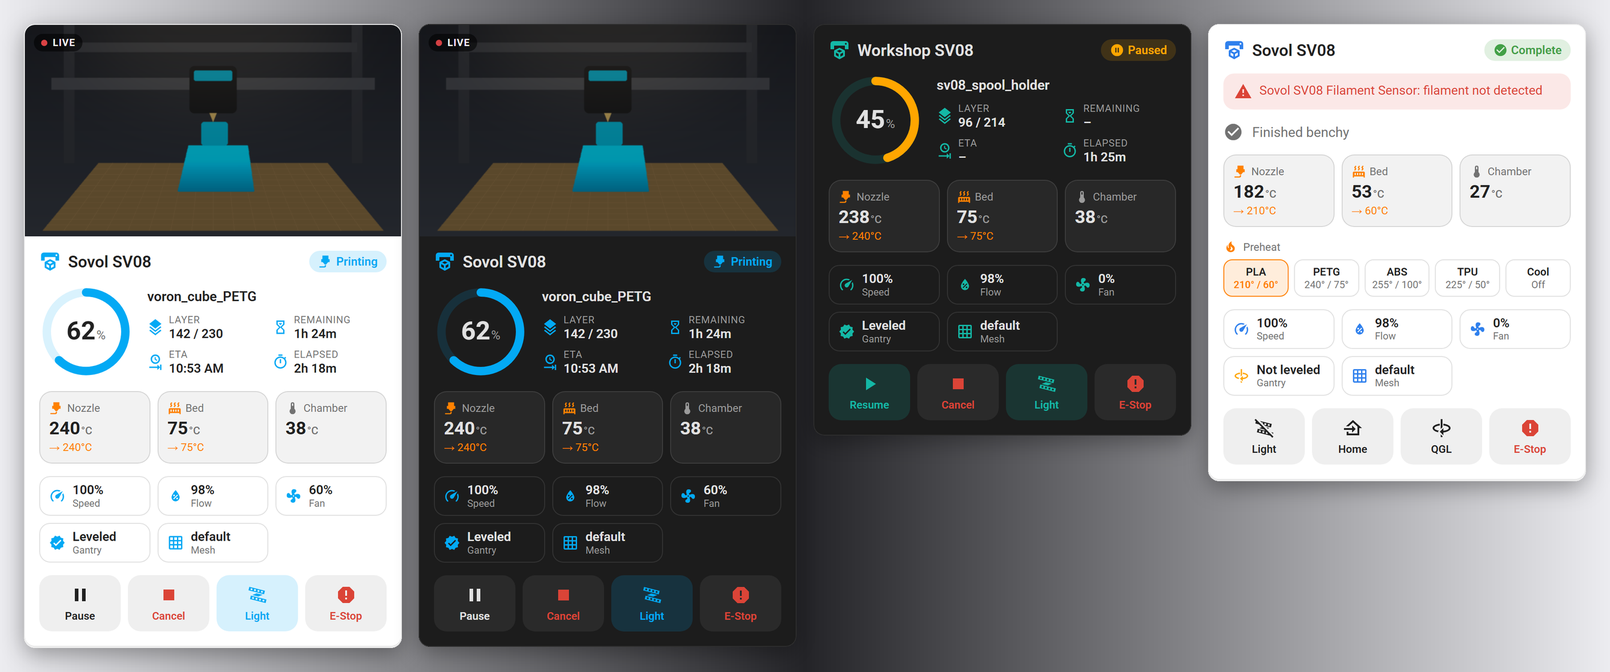
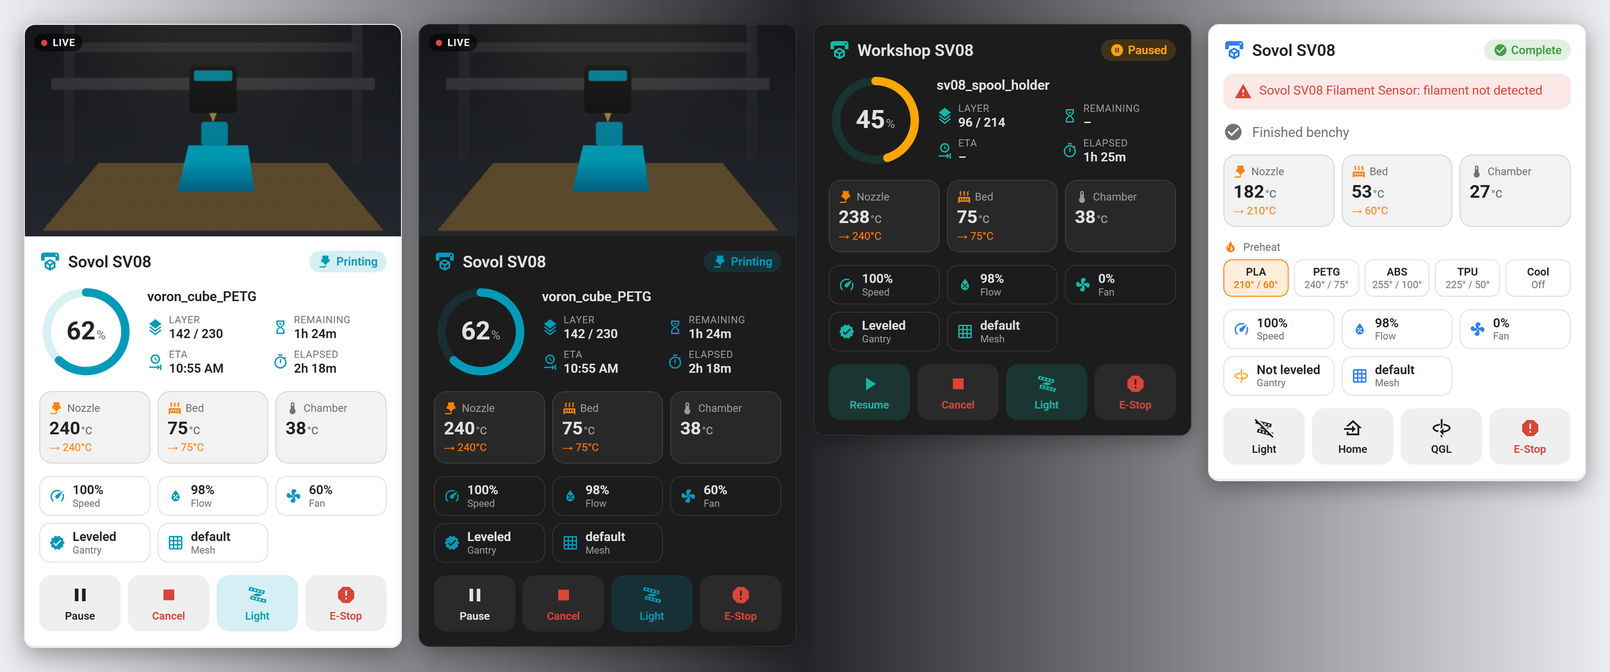
feat: Sovol blue card accent, now the default
Adds a named "sovol" accent (#009bb9) to the card and its visual editor
and makes it the default; "theme" still follows the Home Assistant theme.
Bumps the version to 1.1.0 so browsers load the new card.

diff --git a/custom_components/sovol_sv08/www/sovol-sv08-card.js b/custom_components/sovol_sv08/www/sovol-sv08-card.js
@@ -7,10 +7,11 @@
  * gantry leveling, preheat presets and print controls for one printer.
  */
 
-const CARD_VERSION = "1.0.0";
+const CARD_VERSION = "1.1.0";
 const DOMAIN = "sovol_sv08";
 
 const ACCENTS = {
+  sovol: "#009bb9", // Sovol's brand blue (sovol3d.com)
   theme: "var(--primary-color)",
   orange: "#ff8a00",
   blue: "#2f80ed",
@@ -126,7 +127,7 @@ class SovolSV08Card extends HTMLElement {
       camera_mode: "live",
       show_controls: true,
       show_preheat: true,
-      accent_color: "theme",
+      accent_color: "sovol",
     };
   }
 
@@ -273,7 +274,7 @@ class SovolSV08Card extends HTMLElement {
   // ------------------------------------------------------------------
 
   _buildSkeleton() {
-    const accent = ACCENTS[this._config.accent_color] || this._config.accent_color || ACCENTS.theme;
+    const accent = ACCENTS[this._config.accent_color] || this._config.accent_color || ACCENTS.sovol;
     this.shadowRoot.innerHTML = `
       <style>${STYLES}</style>
       <ha-card style="--sv-accent:${esc(accent)}">
@@ -775,7 +776,7 @@ class SovolSV08CardEditor extends HTMLElement {
             custom_value: true,
             options: Object.keys(ACCENTS).map((key) => ({
               value: key,
-              label: key === "theme" ? "Theme color" : key[0].toUpperCase() + key.slice(1),
+              label: { theme: "Theme color", sovol: "Sovol blue" }[key] || key[0].toUpperCase() + key.slice(1),
             })),
           },
         },

diff --git a/README.md b/README.md
@@ -188,7 +188,7 @@ Options (all optional; all except `preheat_presets` are also in the visual edito
 |---|---|---|
 | `entry_id` | first printer | Which printer to show, if you have more than one |
 | `title` | printer name | Card title |
-| `accent_color` | `theme` | `theme`, `orange`, `blue`, `green`, `purple`, `red`, `teal`, `pink`, or any CSS colour like `"#ff6600"` |
+| `accent_color` | `sovol` | `sovol` (Sovol blue, `#009bb9`), `theme` (your Home Assistant theme colour), `orange`, `blue`, `green`, `purple`, `red`, `teal`, `pink`, or any CSS colour like `"#ff6600"` |
 | `show_camera` | `true` | Show the camera feed |
 | `camera_mode` | `live` | `live` video or `snapshot` (refreshed every 5 seconds) |
 | `show_controls` | `true` | Show the control buttons |
@@ -201,7 +201,7 @@ TPU 225 / 50. Values above your printer's limits are capped. Your own list:
 ```yaml
 type: custom:sovol-sv08-card
 title: Workshop SV08
-accent_color: red
+accent_color: theme
 preheat_presets:
   - name: PLA
     nozzle: 215
